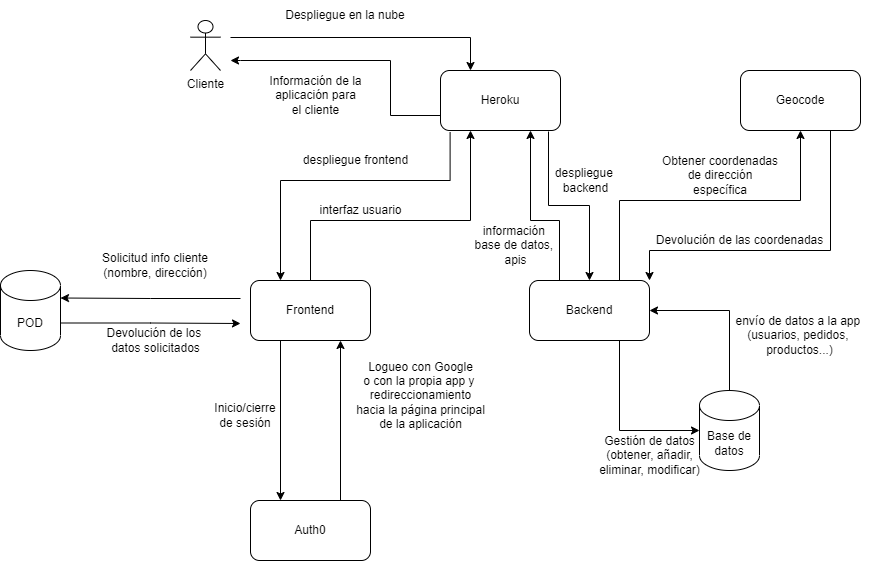
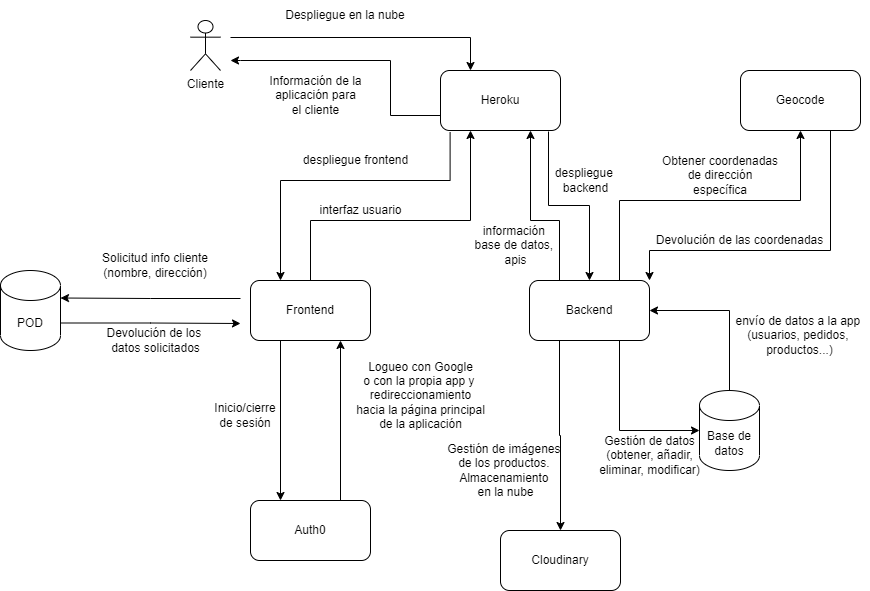
Updates

diff --git a/index.html b/index.html
@@ -903,6 +903,11 @@ los datos personales.</p>
 <td class="tableblock halign-left valign-top"><p class="tableblock"><em>Petición por parte del backend de las coordenadas de una dirección de un usuario extraída a través de los POD</em></p></td>
 <td class="tableblock halign-left valign-top"><p class="tableblock"><em>Devolución de las coordenadas</em></p></td>
 </tr>
+<tr>
+<td class="tableblock halign-left valign-top"><p class="tableblock"><em>Cloudinary</em></p></td>
+<td class="tableblock halign-left valign-top"><p class="tableblock"><em>Petición al añadir juguete que transforma la URL de la imagen en una URL de cloudinary pública que es la que se almacena en la base de datos.</em></p></td>
+<td class="tableblock halign-left valign-top"><p class="tableblock"><em>Almacenamiento en la nube de la imágen.</em></p></td>
+</tr>
 </tbody>
 </table>
 <div class="sidebarblock arc42help">
@@ -979,6 +984,10 @@ The title of the table is the name of your system, the three columns contain the
 <tr>
 <td class="tableblock halign-left valign-top"><p class="tableblock"><em>Geocode</em></p></td>
 <td class="tableblock halign-left valign-top"><p class="tableblock"><em>API que se encargará de aportar las coordenadas de una dirección concreta con el objetivo de calcular los gastos de envío posteriormente</em></p></td>
+</tr>
+<tr>
+<td class="tableblock halign-left valign-top"><p class="tableblock"><em>Cloudinary</em></p></td>
+<td class="tableblock halign-left valign-top"><p class="tableblock"><em>API que almacenará las imágenes de los productos en la nube.</em></p></td>
 </tr>
 </tbody>
 </table>
